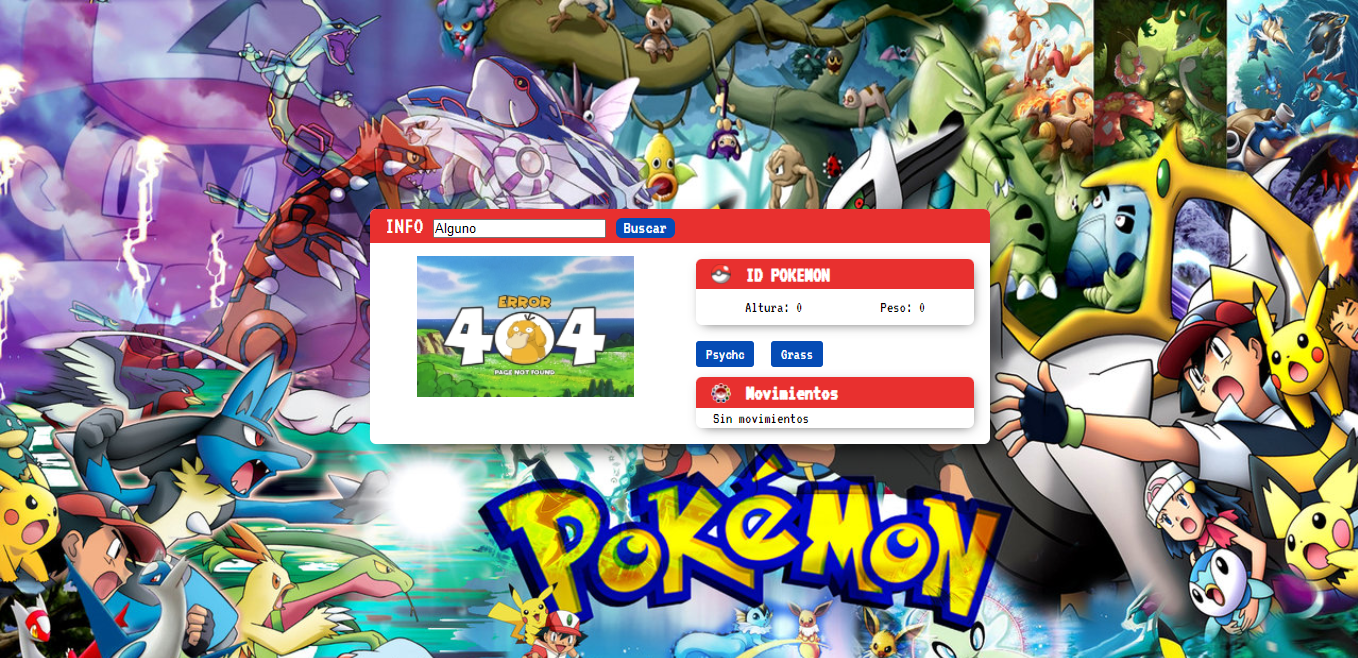
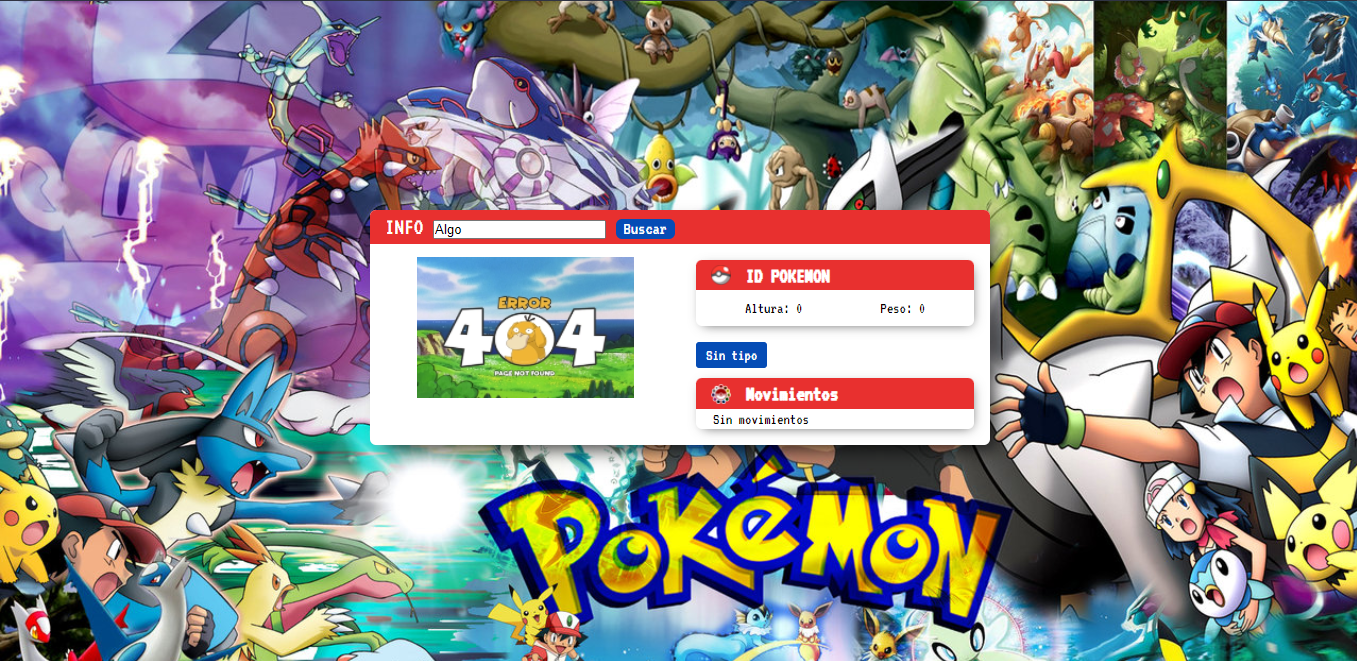
Ajustes en sección de tipo de pokemon

diff --git a/index.html b/index.html
@@ -30,8 +30,7 @@
                     </div>
                 </div>
                 <div class="types">
-                    <div class="type">Psychc</div>
-                    <div class="type">Grass</div>
+                    <div class="type">Sin tipo</div>
                 </div>
                 <div class="abilities">
                     <div class="pokedex-header">
